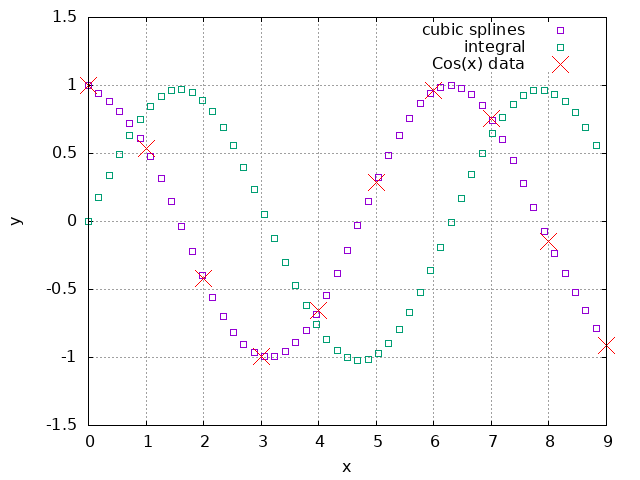
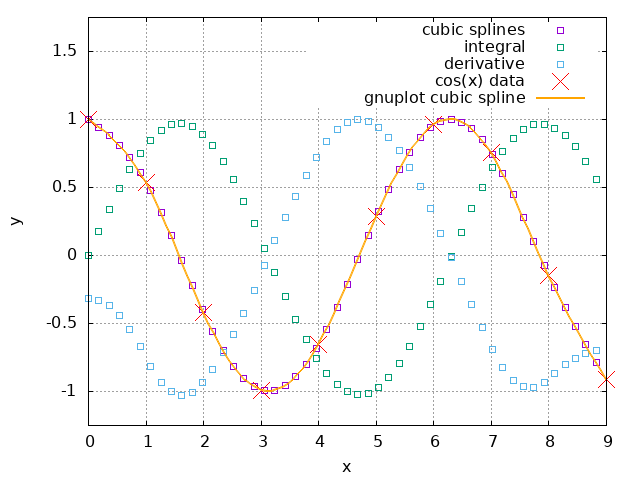
should be done, boundaries come from selection

diff --git a/homeworks/splines/fit.cs b/homeworks/splines/fit.cs
@@ -340,6 +340,73 @@ public class Fit{
                 + 0.25 * d[i] * dz * dz * dz * dz;
         };
     }
+    public static Func<double, double> cubicSplineD(double[] x, double[] y) {
+        int n = x.Length;
+        if (y.Length != n) throw new ArgumentException("x and y must have the same length");
 
+        double[] b = new double[n];
+        double[] c = new double[n - 1];
+        double[] d = new double[n - 1];
+        double[] h = new double[n - 1];
+        double[] p = new double[n - 1];
 
+        for (int i = 0; i < n - 1; i++) {
+            h[i] = x[i + 1] - x[i];
+            if (h[i] <= 0) throw new Exception("x must be strictly increasing");
+            p[i] = (y[i + 1] - y[i]) / h[i];
+        }
+
+        double[] D = new double[n];
+        double[] Q = new double[n - 1];
+        double[] B = new double[n];
+
+        D[0] = 2;
+        Q[0] = 1;
+        B[0] = 3 * p[0];
+
+        for (int i = 0; i < n - 2; i++) {
+            D[i + 1] = 2 * h[i] / h[i + 1] + 2;
+            Q[i + 1] = h[i] / h[i + 1];
+            B[i + 1] = 3 * (p[i] + p[i + 1] * h[i] / h[i + 1]);
+        }
+
+        D[n - 1] = 2;
+        B[n - 1] = 3 * p[n - 2];
+
+        // Forward elimination
+        for (int i = 1; i < n; i++) {
+            D[i] -= Q[i - 1] / D[i - 1];
+            B[i] -= B[i - 1] / D[i - 1];
+        }
+
+        b[n - 1] = B[n - 1] / D[n - 1];
+
+        // Back substitution
+        for (int i = n - 2; i >= 0; i--)
+            b[i] = (B[i] - Q[i] * b[i + 1]) / D[i];
+
+        for (int i = 0; i < n - 1; i++) {
+            c[i] = (-2 * b[i] - b[i + 1] + 3 * p[i]) / h[i];
+            d[i] = (b[i] + b[i + 1] - 2 * p[i]) / (h[i] * h[i]);
+        }
+
+        return z => {
+            double dz;
+            if (z <= x[0]) {
+                // Use the derivative formula for the first segment at z = x[0]
+                dz = 0; // At the boundary, dz = z - x[0] = 0
+                return b[0] + 2 * dz * c[0] + 3 * dz * dz * d[0];
+            }
+            if (z >= x[n - 1]) {
+                // Use the derivative formula for the last segment at z = x[n - 2]
+                dz = x[n - 1] - x[n - 2]; 
+                return b[n - 2] + 2 * dz * c[n - 2] + 3 * dz * dz * d[n - 2];
+            }
+
+            int i = binsearch(x, z);
+
+            dz = z - x[i];
+            return b[i] + 2 * dz * c[i] + 3 * dz * dz * d[i];
+        };
+    }
 }

diff --git a/homeworks/splines/main.cs b/homeworks/splines/main.cs
@@ -33,6 +33,7 @@ static void Main(string[] args){
     var linint = Fit.linSplineInt(x,y);
     var quadint = Fit.quadSplineInt(x,y);
     var cubicint = Fit.cubicSplineInt(x,y);
+    var cubicd = Fit.cubicSplineD(x,y);
 
     // manually calculate the coefficients for the quadratic spline
     int n = x.Length;
@@ -76,7 +77,7 @@ static void Main(string[] args){
     }
     
     for (int i = 0; i < splinex.Length; i++){
-        WriteLine($"{splinex[i]} {lspline(splinex[i])} {qspline(splinex[i])} {cspline(splinex[i])} {linint(splinex[i])} {quadint(splinex[i])} {cubicint(splinex[i])}");
+        WriteLine($"{splinex[i]} {lspline(splinex[i])} {qspline(splinex[i])} {cspline(splinex[i])} {linint(splinex[i])} {quadint(splinex[i])} {cubicint(splinex[i])} {cubicd(splinex[i])}");
     }
 }    
 }
